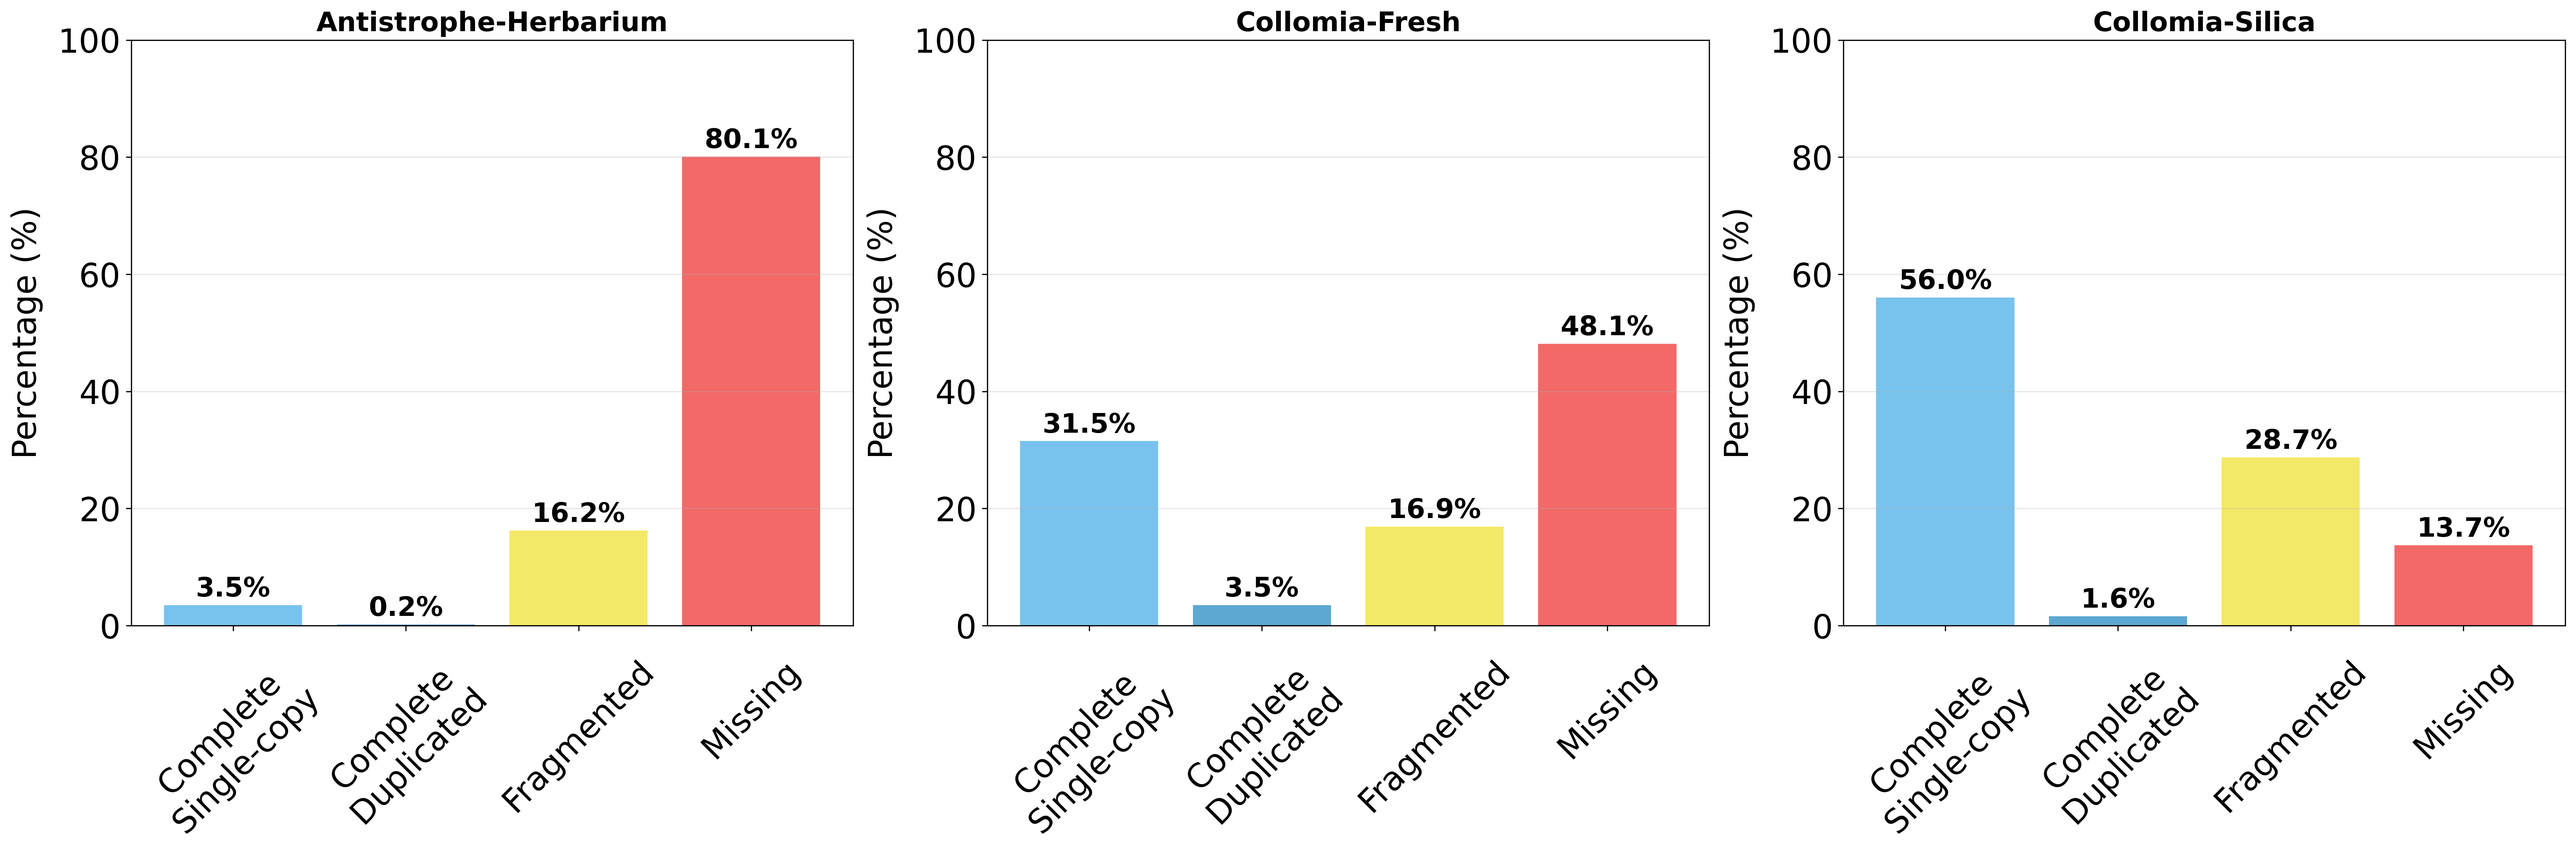
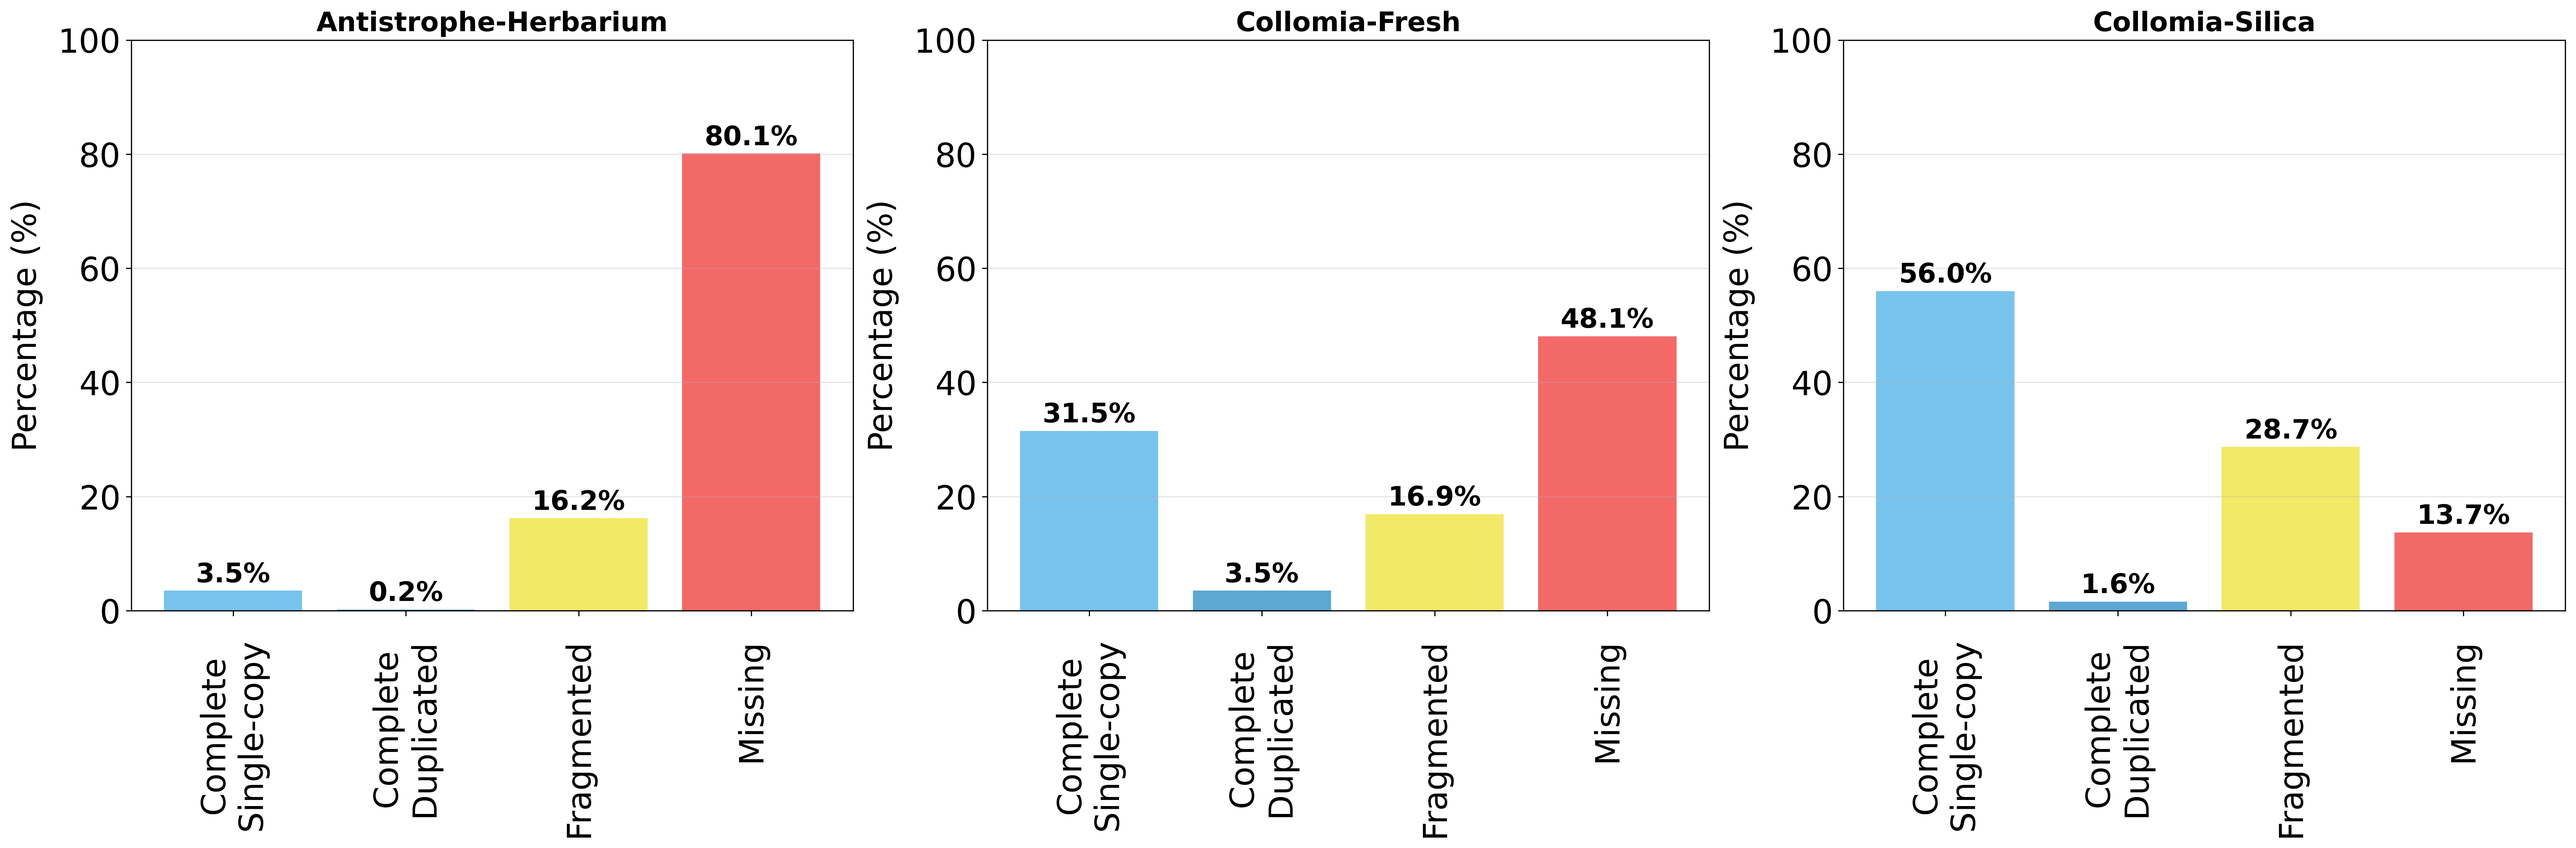
initial commit

diff --git a/00_plottingScript/plotting_functions.py b/00_plottingScript/plotting_functions.py
@@ -134,7 +134,7 @@ def plot_busco_representative(output_dir):
             category_labels = ['Complete\nSingle-copy', 'Complete\nDuplicated', 'Fragmented', 'Missing']
             for bar, label in zip(bars, category_labels):
                 ax.text(bar.get_x() + bar.get_width()/2., -5, label, 
-                        ha='center', va='top', fontsize=22, rotation=45, color='black')
+                        ha='center', va='top', fontsize=22, rotation=90, color='black')
             
             ax.set_title(f'{get_real_sample_name(sample)}', fontsize=18, fontweight='bold')
             ax.set_ylim(0, 100)
@@ -617,7 +617,7 @@ def create_concatenated_representative_plots(output_dir, plot_types):
     
     available_plots = ordered_plots
     
-    fig, axes = plt.subplots(4, 3, figsize=(24, 32))
+    fig, axes = plt.subplots(4, 3, figsize=(24, 36))
     
     # plot_labels = {
     #     'busco': 'BUSCO Scores',
@@ -658,17 +658,17 @@ def create_concatenated_representative_plots(output_dir, plot_types):
         for col_idx in range(3):
             axes[row_idx, col_idx].axis('off')
     
-    plt.tight_layout(pad=12.0, h_pad=1.0, w_pad=1.0)
+    plt.tight_layout(pad=12.0, h_pad=1.0, w_pad=1.0, rect=[0.05, 0.05, 0.95, 0.95])
     
     for row_idx, plot_type in enumerate(available_plots):
         if plot_type not in plot_files or not os.path.exists(plot_files[plot_type]):
             continue
         
         pos = axes[row_idx, 0].get_position()
-        row_top_y = pos.y1 - 0.02
+        row_top_y = pos.y1 - 0.01
         
-        fig.text(0.02, row_top_y, chr(65 + row_idx), 
-                fontsize=60, fontweight='bold', ha='center', va='top', rotation=0)
+        fig.text(0.08, row_top_y, chr(65 + row_idx), 
+                fontsize=48, fontweight='bold', ha='center', va='top', rotation=0)
         
         row_center_y = pos.y0 + (pos.y1 - pos.y0) / 2 
         row_titles = {
@@ -715,7 +715,7 @@ def create_busco_individual_plot(ax, sample, output_dir):
         bars = ax.bar(categories, percentages, color=colors, alpha=0.8)
         
         ax.set_xticks(range(len(categories)))
-        ax.set_xticklabels(category_labels)
+        ax.set_xticklabels(category_labels, rotation=90, ha='center')
         
         for bar, percentage in zip(bars, percentages):
             height = bar.get_height()
@@ -724,10 +724,9 @@ def create_busco_individual_plot(ax, sample, output_dir):
         
         ax.set_title(f'{get_real_sample_name(sample)}', fontsize=24, fontweight='bold')
         ax.set_ylim(0, 100)
-        ax.tick_params(axis='x', labelsize=20)
+        ax.tick_params(axis='x', labelsize=18)
         ax.tick_params(axis='y', labelsize=20)
         ax.set_ylabel('Percentage (%)', fontsize=22, labelpad=10)
-        ax.tick_params(axis='x', labelsize=18)
         ax.grid(True, alpha=0.3, axis='y')
         ax.set_yticks([0, 20, 40, 60, 80, 100])
         
